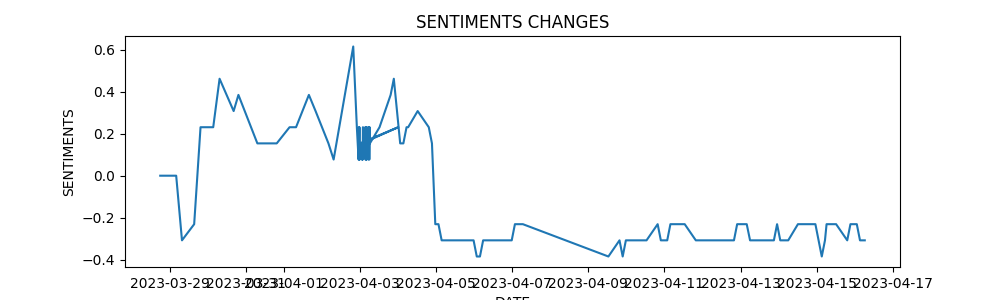
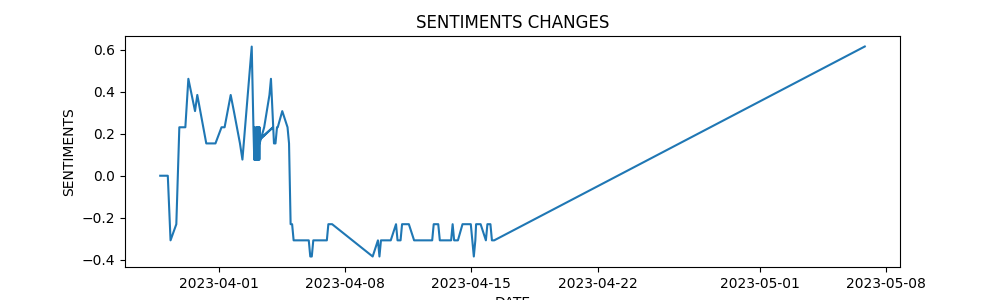
Commit

diff --git a/finance.html b/finance.html
@@ -13,7 +13,7 @@
                 <img style = "width:70px;" src="image/MNAZ.gif" alt="MNAZ Web">
                 <button id="darkModeToggle">Toggle Dark Mode</button>
               </header>
-              <h2>Date: 2023-04-16 06:21:47.375714</h2>
+              <h2>Date: 2023-05-06 19:34:21.715031</h2>
               <div class="container">
                 <div class="half">
                   <h2>News</h2>
@@ -21,19 +21,19 @@
                   <a href = "https://www.investing.com/currencies/usd-jpy-news" target = "_blank">Scraped From Investing.com </a>
                   <ul id="newsList" class="hidden">
                       
-<li style = 'font-weight: bold;'>Yellen says US banks may tighten lending and negate need for more rate hikes<ul><li style = 'font-size: smaller;font-style: italic;'>Negative</li></ul></li>
-<li style = 'font-weight: bold;'>Stock market today: Dow closes lower on rate hike jitters, but notches 4th weekly win<ul><li style = 'font-size: smaller;font-style: italic;'>Neutral</li></ul></li>
-<li style = 'font-weight: bold;'>Ferrari fever? Classic cars roar into investment funds<ul><li style = 'font-size: smaller;font-style: italic;'>Neutral</li></ul></li>
-<li style = 'font-weight: bold;'>Asia FX surges, dollar hits one-year low on bets of rate pauses<ul><li style = 'font-size: smaller;font-style: italic;'>The sentiment of this text towards USDJPY is negative.</li></ul></li>
-<li style = 'font-weight: bold;'>Dollar slumps to one-year low on cooling U.S. inflation<ul><li style = 'font-size: smaller;font-style: italic;'>Negative</li></ul></li>
-<li style = 'font-weight: bold;'>Dollar dips on easing inflation, recession risks throttle Asia FX<ul><li style = 'font-size: smaller;font-style: italic;'>Negative</li></ul></li>
-<li style = 'font-weight: bold;'>Dollar edges higher; remains near two-month low after U.S. CPI<ul><li style = 'font-size: smaller;font-style: italic;'>Neutral</li></ul></li>
-<li style = 'font-weight: bold;'>Asia FX flat, dollar dips ahead of CPI data, Fed minutes<ul><li style = 'font-size: smaller;font-style: italic;'>Neutral</li></ul></li>
-<li style = 'font-weight: bold;'>Dollar edges lower; tight trading ranges ahead of CPI, Fed minutes<ul><li style = 'font-size: smaller;font-style: italic;'>Neutral</li></ul></li>
-<li style = 'font-weight: bold;'>Asia FX edges higher, dollar mixed ahead of Fed cues, inflation data<ul><li style = 'font-size: smaller;font-style: italic;'>Neutral</li></ul></li>
-<li style = 'font-weight: bold;'>Dollar retreats from payrolls gains; CPI data looms large<ul><li style = 'font-size: smaller;font-style: italic;'>Neutral</li></ul></li>
-<li style = 'font-weight: bold;'>Dollar edges higher on safe haven flows; caution ahead of payrolls<ul><li style = 'font-size: smaller;font-style: italic;'>Neutral</li></ul></li>
-<li style = 'font-weight: bold;'>Asia FX, dollar muted amid economic fears, Kiwi rallies on hawkish RBNZ<ul><li style = 'font-size: smaller;font-style: italic;'>Neutral</li></ul></li>
+<li style = 'font-weight: bold;'>U.S. economy adds 253,000 jobs in April<ul><li style = 'font-size: smaller;font-style: italic;'>Positive</li></ul></li>
+<li style = 'font-weight: bold;'>Stock Market Today: Dow ends week in red despite Apple-inspired rally<ul><li style = 'font-size: smaller;font-style: italic;'>Neutral</li></ul></li>
+<li style = 'font-weight: bold;'>Dow has best day since Jan. 6 after Apple rally, jobs data<ul><li style = 'font-size: smaller;font-style: italic;'>Positive</li></ul></li>
+<li style = 'font-weight: bold;'>Buffett set for 59th shareholder marathon as big questions loom<ul><li style = 'font-size: smaller;font-style: italic;'>Neutral</li></ul></li>
+<li style = 'font-weight: bold;'>Wall Street Week Ahead: U.S. consumer price data to test feared stagflation scenario<ul><li style = 'font-size: smaller;font-style: italic;'>Neutral</li></ul></li>
+<li style = 'font-weight: bold;'>Dow has best day since Jan. 6 after Apple rally, jobs data<ul><li style = 'font-size: smaller;font-style: italic;'>Positive</li></ul></li>
+<li style = 'font-weight: bold;'>Stocks rally while Treasuries fall as US jobs data brightens outlook<ul><li style = 'font-size: smaller;font-style: italic;'>Positive</li></ul></li>
+<li style = 'font-weight: bold;'>DeSantis signs bill allowing Florida board to cancel Disney deals<ul><li style = 'font-size: smaller;font-style: italic;'>Neutral</li></ul></li>
+<li style = 'font-weight: bold;'>S&P 500 rides Apple rally, strong jobs data higher<ul><li style = 'font-size: smaller;font-style: italic;'>Positive</li></ul></li>
+<li style = 'font-weight: bold;'>Apple's results send shares surging to nine-month high<ul><li style = 'font-size: smaller;font-style: italic;'>Positive</li></ul></li>
+<li style = 'font-weight: bold;'>Further improvement seen in weak Q1 U.S. earnings forecast -Refinitiv data<ul><li style = 'font-size: smaller;font-style: italic;'>Positive</li></ul></li>
+<li style = 'font-weight: bold;'>European shares rise as energy firms, HSBC boost; end second straight week lower<ul><li style = 'font-size: smaller;font-style: italic;'>Neutral</li></ul></li>
+<li style = 'font-weight: bold;'>Exchange operator Cboe profit rises as market volatility lifts trading volumes<ul><li style = 'font-size: smaller;font-style: italic;'>Positive</li></ul></li>
                   </ul>
                 </div>
                 <div class="half">
@@ -44,25 +44,25 @@
                 <p style = 'font-weight:bold;'>ChatGPT SENTIMENTS</p>
                 <ul>
                     <li style = 'font-size: smaller;font-style: italic;'>
-                        Positive: 0
+                        Positive: 8
                     </li>
                     <li style = 'font-size: smaller;font-style: italic;'>
-                        Negative: 4
+                        Negative: 0
                     </li>
                     <li style = 'font-size: smaller;font-style: italic;'>
-                        Neutral: 9
+                        Neutral: 5
                     </li>
                 </ul>
                 <p style = 'font-weight:bold;'>VADER SENTIMENTS</p>
                 <ul>
                     <li style = 'font-size: smaller;font-style: italic;'>
-                        Positive: 23%
+                        Positive: 61%
                     </li>
                     <li style = 'font-size: smaller;font-style: italic;'>
-                        Negative: 46%
+                        Negative: 23%
                     </li>
                     <li style = 'font-size: smaller;font-style: italic;'>
-                        Neutral: 30%
+                        Neutral: 15%
                     </li>
                 </ul>
                 <p style = 'font-weight:bold;'>BAYES CLASS</p>
